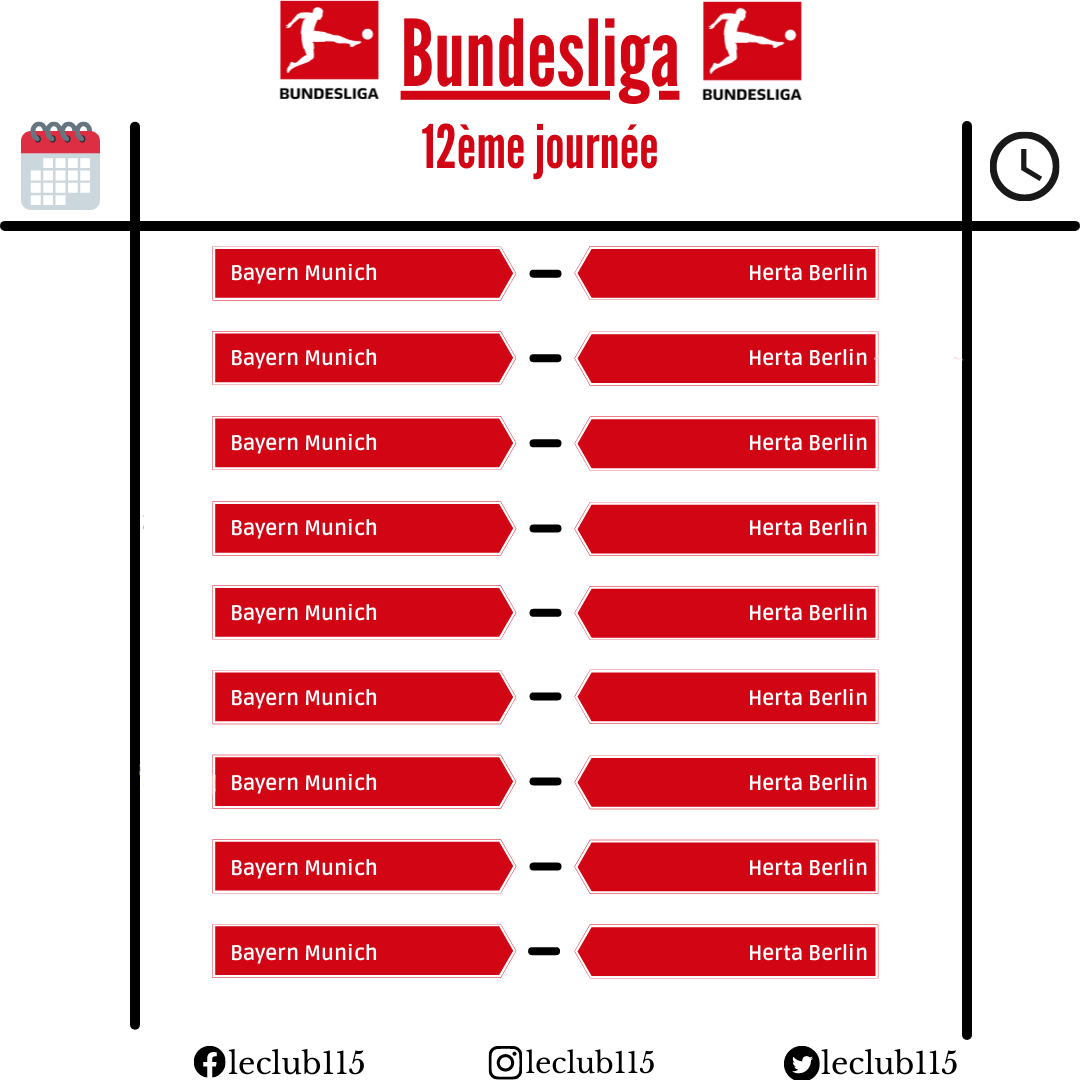
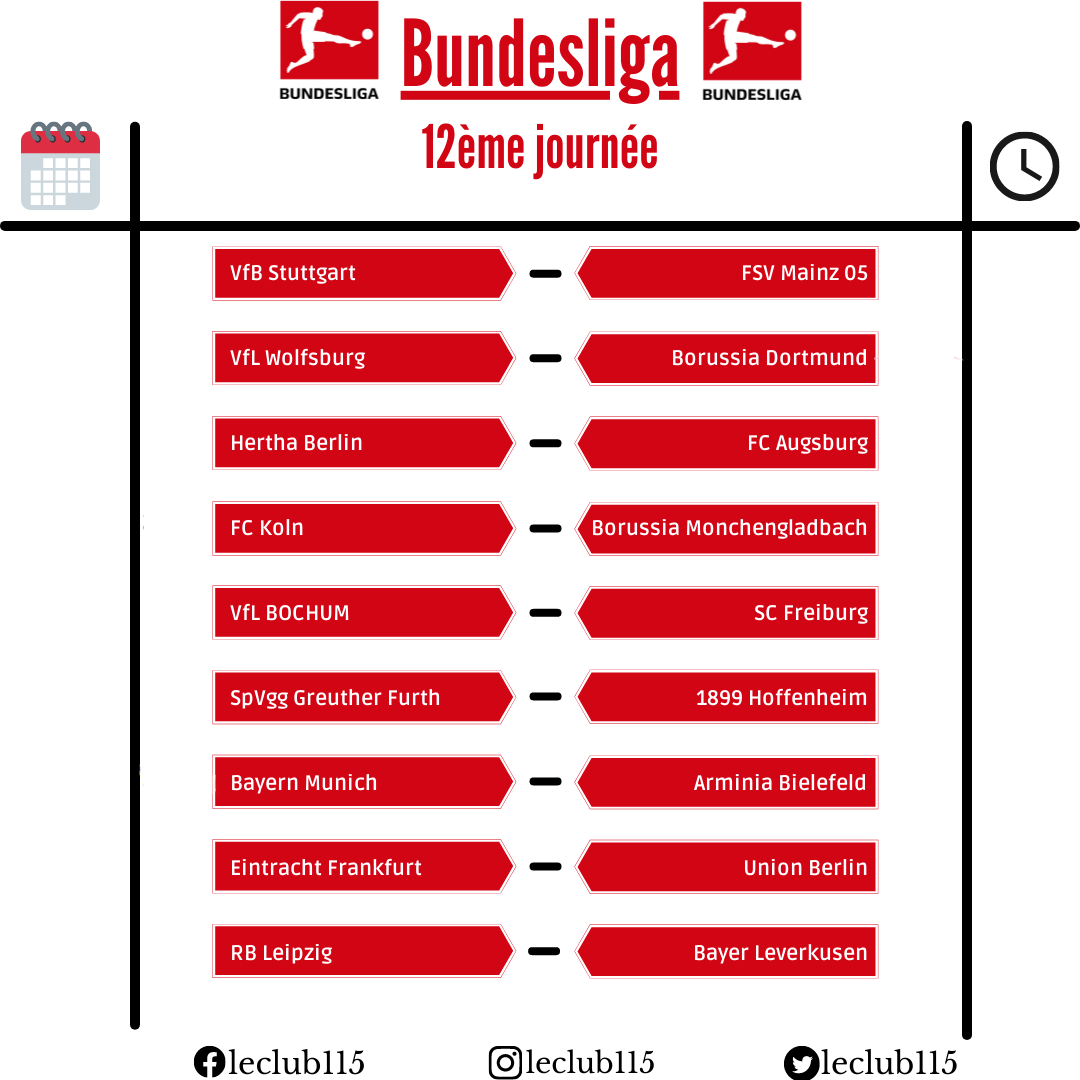
API get DATA ok

diff --git a/api.py b/api.py
@@ -1,0 +1,34 @@
+import requests
+import datetime
+import json
+
+#doc : https://www.api-football.com/documentation
+
+# API Auth
+headers = {
+    'x-rapidapi-host': "api-football-v1.p.rapidapi.com",
+    'x-rapidapi-key': "28690fa489mshd60bc899567836fp17400ejsnf7f16b7f5883"
+    }
+# Static data 
+f = open('data_clubs.json')
+data_clubs = json.load(f)
+# Get current season year
+current_year = datetime.datetime.now().year if datetime.datetime.now().month > 7 else datetime.datetime.now().year-1
+
+# Get leagues infos
+# ['name', 'id', 'season', 'country']
+leagues = requests.get("https://api-football-v1.p.rapidapi.com/v2/leagues/season/{}".format(current_year), headers=headers).json()
+leagues = [[league['name'], league['league_id'], league['season'], league['country']] for league in leagues["api"]["leagues"] if league['name'] in data_clubs['leagues'] and data_clubs['leagues'][league['name']] == league['country'] and league['season'] == current_year]
+
+# Get next round & next matches
+# { 'country' : ['id', 'event_date', 'round', ['team_id', 'team_name', 'logo'], ['team_id', 'team_name', 'logo']]}
+coming_play_off_per_country = {}
+for league in leagues:
+    coming_round = requests.get("https://api-football-v1.p.rapidapi.com/v2/fixtures/rounds/{}/current".format(league[1]), headers=headers).json()['api']['fixtures'][0]
+    print(league[1], coming_round)
+    coming_play_off = requests.get("https://api-football-v1.p.rapidapi.com/v2/fixtures/league/{}/{}".format(league[1], coming_round), headers=headers).json()['api']['fixtures']
+    coming_play_off = [[play_off['fixture_id'], play_off['event_date'], play_off['round'], [play_off['homeTeam']['team_id'], play_off['homeTeam']['team_name'], play_off['homeTeam']['logo']], [play_off['awayTeam']['team_id'], play_off['awayTeam']['team_name'], play_off['awayTeam']['logo']] ] for play_off in coming_play_off ]
+    coming_play_off_per_country[league[3]] = coming_play_off
+
+print(coming_play_off_per_country)
+# Get next match

diff --git a/main.py b/main.py
@@ -18,13 +18,15 @@ ruda_bold = ImageFont.truetype(data_clubs['path_font']+'/ruda/Ruda-Bold.ttf', 21
 #DRAW IMAGE
 edit_image = ImageDraw.Draw(new_image)
 
+f = open('test.json')
+germany = json.load(f)['germany']
 
 
 start_height = 260
-for i in range(9):
-    edit_image.text((230,start_height), "Bayern Munich", (255,255,255), ruda_bold)
-    size = ruda_bold.getsize("Herta Berlin")
-    edit_image.text((868-size[0],start_height), "Herta Berlin", (255,255,255), ruda_bold)
+for play in germany:
+    edit_image.text((230,start_height), play[3][1], (255,255,255), ruda_bold)
+    size = ruda_bold.getsize(play[4][1])
+    edit_image.text((868-size[0],start_height), play[4][1], (255,255,255), ruda_bold)
     start_height += 85
 
 
